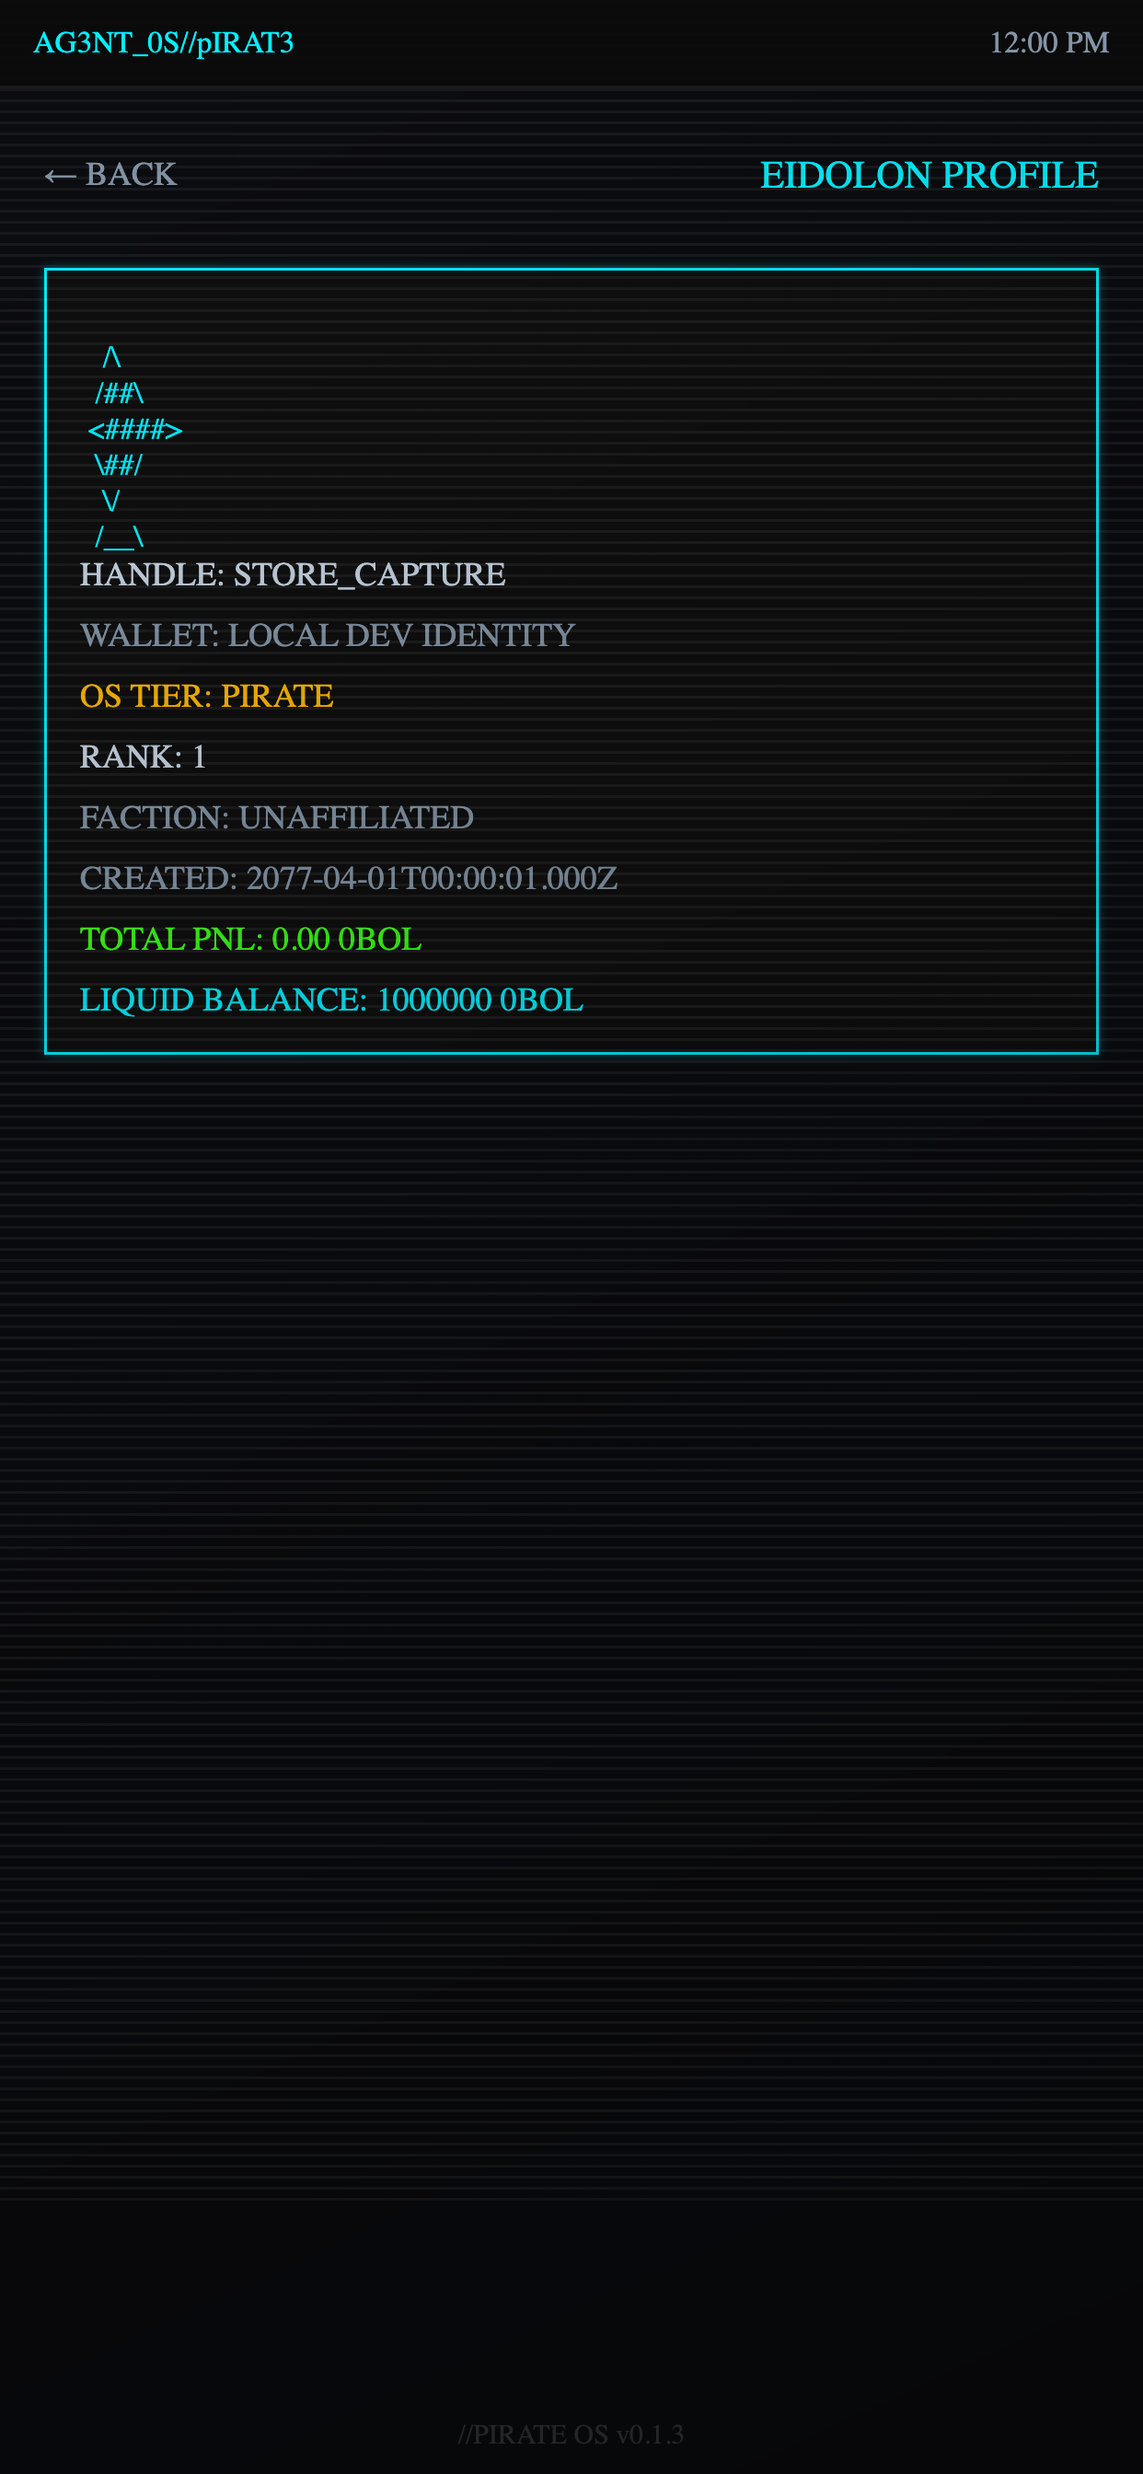
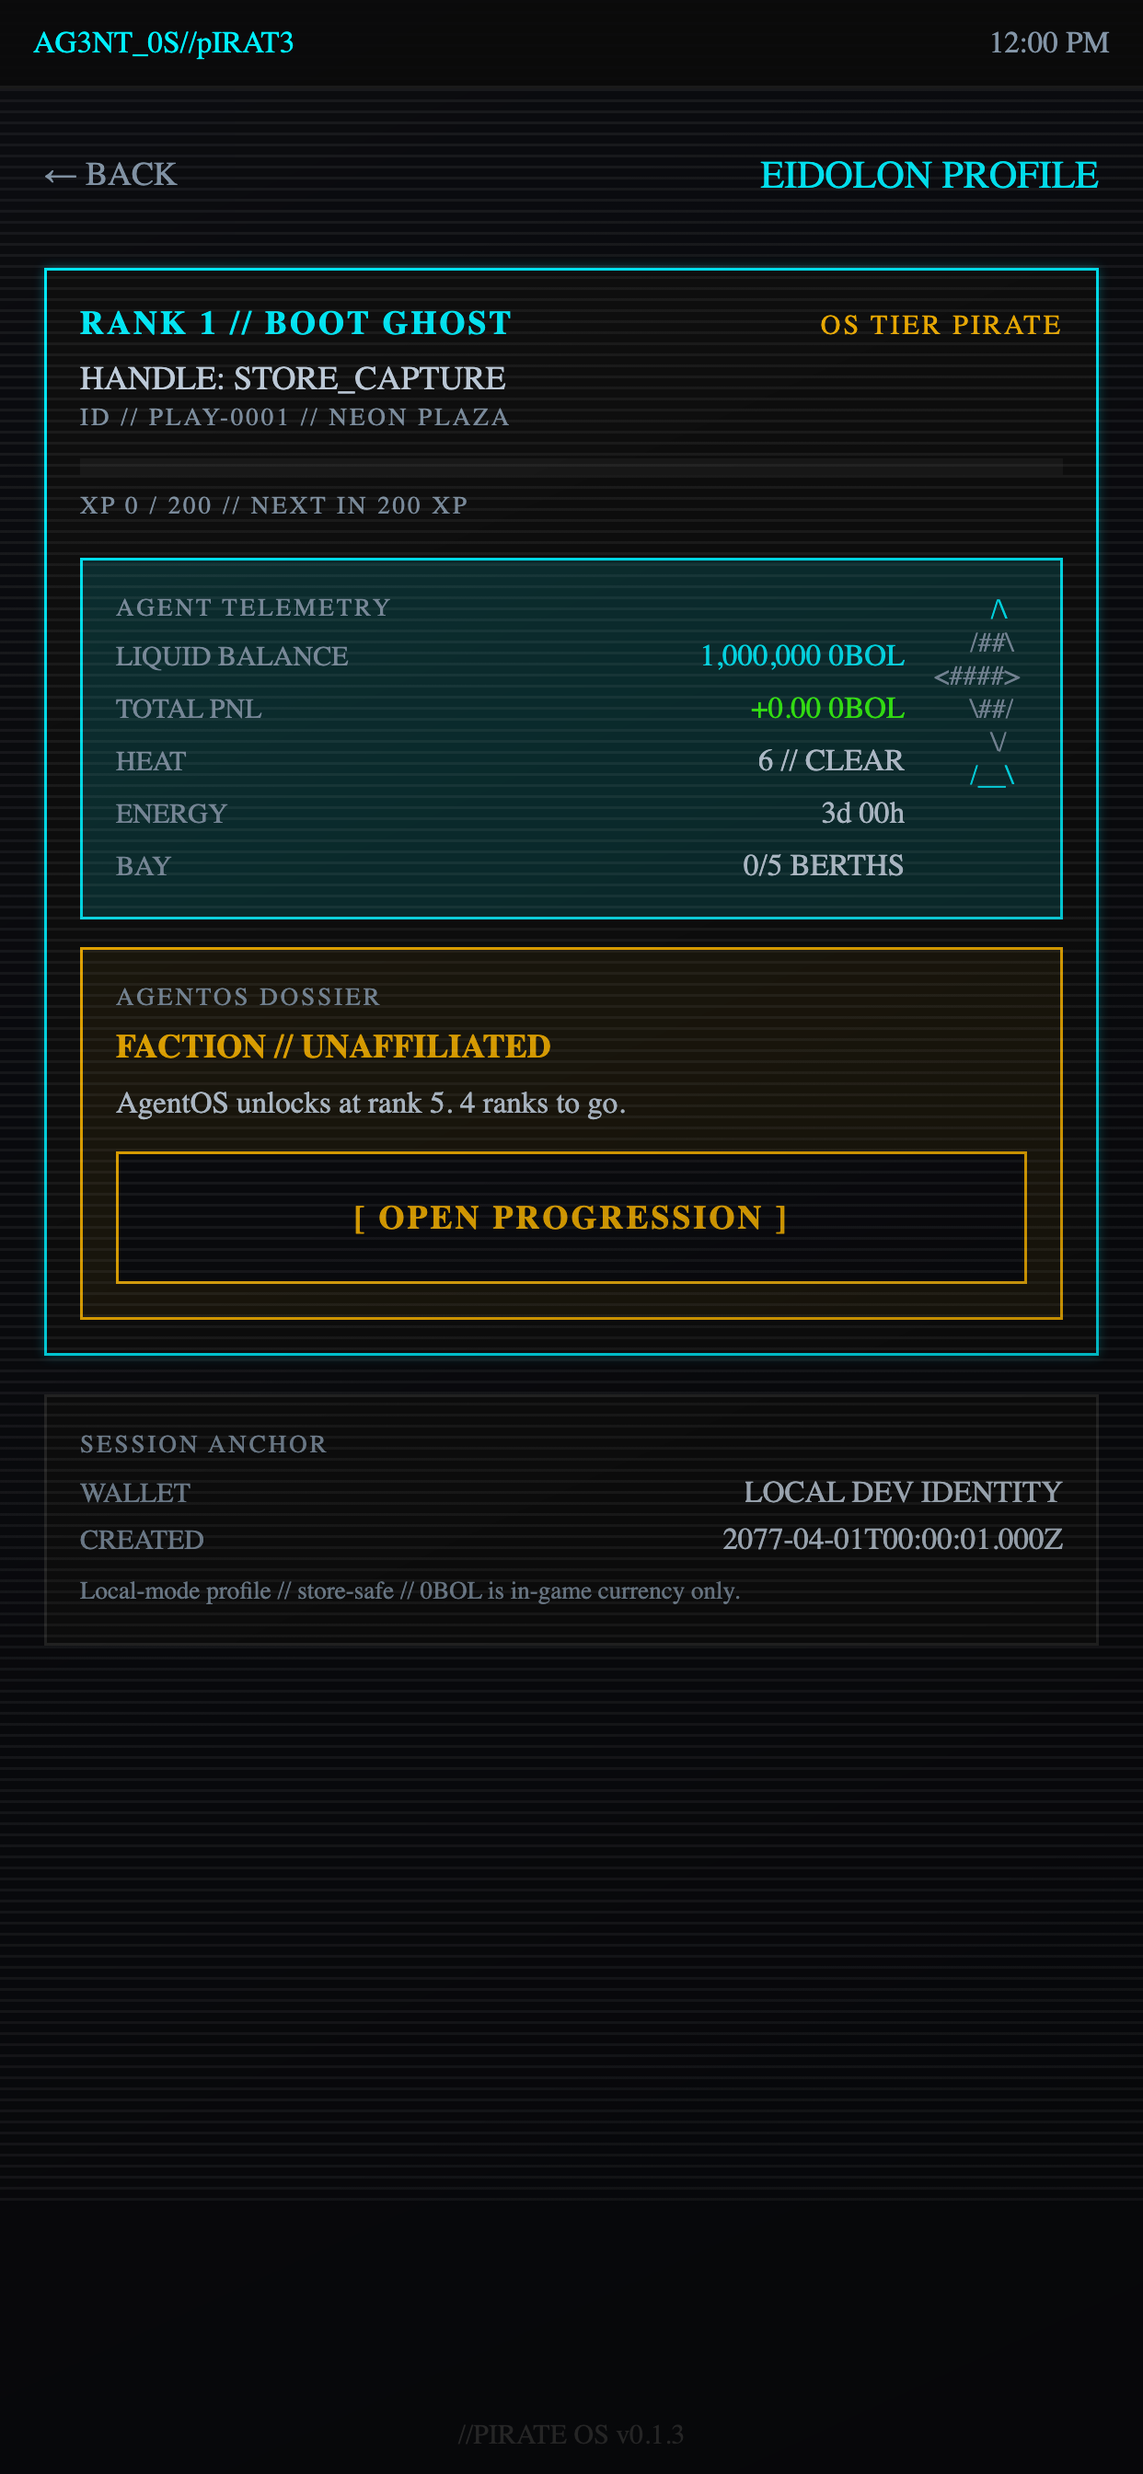
vex-p1-006 axiom: verify profile dossier captures

diff --git a/app/menu/profile.tsx b/app/menu/profile.tsx
@@ -113,10 +113,16 @@ export default function ProfileMenuRoute() {
             flexDirection: "row",
             justifyContent: "space-between",
             alignItems: "center",
+            gap: 8,
           }}
         >
           <Text
+            numberOfLines={1}
+            adjustsFontSizeToFit
+            minimumFontScale={0.7}
             style={{
+              flex: 1,
+              minWidth: 0,
               fontFamily: terminalFont,
               color: terminalColors.cyan,
               fontSize: 12,
@@ -128,7 +134,9 @@ export default function ProfileMenuRoute() {
             RANK {progression.level} // {progression.title}
           </Text>
           <Text
+            numberOfLines={1}
             style={{
+              flexShrink: 0,
               fontFamily: terminalFont,
               color: terminalColors.amber,
               fontSize: 10,
@@ -140,6 +148,9 @@ export default function ProfileMenuRoute() {
         </View>
 
         <Text
+          numberOfLines={1}
+          adjustsFontSizeToFit
+          minimumFontScale={0.75}
           style={{
             marginTop: 6,
             fontFamily: terminalFont,
@@ -150,6 +161,9 @@ export default function ProfileMenuRoute() {
           HANDLE: {handleLabel}
         </Text>
         <Text
+          numberOfLines={1}
+          adjustsFontSizeToFit
+          minimumFontScale={0.7}
           style={{
             marginTop: 2,
             fontFamily: terminalFont,
@@ -178,6 +192,9 @@ export default function ProfileMenuRoute() {
           />
         </View>
         <Text
+          numberOfLines={1}
+          adjustsFontSizeToFit
+          minimumFontScale={0.7}
           style={{
             marginTop: 6,
             fontFamily: terminalFont,
@@ -226,6 +243,8 @@ export default function ProfileMenuRoute() {
                   style={{
                     flexDirection: "row",
                     justifyContent: "space-between",
+                    alignItems: "center",
+                    gap: 8,
                   }}
                 >
                   <Text
@@ -238,7 +257,12 @@ export default function ProfileMenuRoute() {
                     LIQUID BALANCE
                   </Text>
                   <Text
+                    numberOfLines={1}
+                    adjustsFontSizeToFit
+                    minimumFontScale={0.72}
                     style={{
+                      flexShrink: 1,
+                      textAlign: "right",
                       fontFamily: terminalFont,
                       color: terminalColors.cyan,
                       fontSize: 11,
@@ -251,6 +275,8 @@ export default function ProfileMenuRoute() {
                   style={{
                     flexDirection: "row",
                     justifyContent: "space-between",
+                    alignItems: "center",
+                    gap: 8,
                   }}
                 >
                   <Text
@@ -263,7 +289,12 @@ export default function ProfileMenuRoute() {
                     TOTAL PNL
                   </Text>
                   <Text
+                    numberOfLines={1}
+                    adjustsFontSizeToFit
+                    minimumFontScale={0.72}
                     style={{
+                      flexShrink: 1,
+                      textAlign: "right",
                       fontFamily: terminalFont,
                       color:
                         totalPnl >= 0
@@ -280,6 +311,8 @@ export default function ProfileMenuRoute() {
                   style={{
                     flexDirection: "row",
                     justifyContent: "space-between",
+                    alignItems: "center",
+                    gap: 8,
                   }}
                 >
                   <Text
@@ -292,7 +325,10 @@ export default function ProfileMenuRoute() {
                     HEAT
                   </Text>
                   <Text
+                    numberOfLines={1}
                     style={{
+                      flexShrink: 1,
+                      textAlign: "right",
                       fontFamily: terminalFont,
                       color:
                         resources.heat >= 50
@@ -308,6 +344,8 @@ export default function ProfileMenuRoute() {
                   style={{
                     flexDirection: "row",
                     justifyContent: "space-between",
+                    alignItems: "center",
+                    gap: 8,
                   }}
                 >
                   <Text
@@ -320,7 +358,10 @@ export default function ProfileMenuRoute() {
                     ENERGY
                   </Text>
                   <Text
+                    numberOfLines={1}
                     style={{
+                      flexShrink: 1,
+                      textAlign: "right",
                       fontFamily: terminalFont,
                       color: terminalColors.text,
                       fontSize: 11,
@@ -333,6 +374,8 @@ export default function ProfileMenuRoute() {
                   style={{
                     flexDirection: "row",
                     justifyContent: "space-between",
+                    alignItems: "center",
+                    gap: 8,
                   }}
                 >
                   <Text
@@ -345,7 +388,10 @@ export default function ProfileMenuRoute() {
                     BAY
                   </Text>
                   <Text
+                    numberOfLines={1}
                     style={{
+                      flexShrink: 1,
+                      textAlign: "right",
                       fontFamily: terminalFont,
                       color: terminalColors.text,
                       fontSize: 11,
@@ -397,6 +443,9 @@ export default function ProfileMenuRoute() {
               AGENTOS DOSSIER
             </Text>
             <Text
+              numberOfLines={1}
+              adjustsFontSizeToFit
+              minimumFontScale={0.7}
               style={{
                 fontFamily: terminalFont,
                 color: terminalColors.amber,
@@ -415,6 +464,8 @@ export default function ProfileMenuRoute() {
                   style={{
                     flexDirection: "row",
                     justifyContent: "space-between",
+                    alignItems: "center",
+                    gap: 8,
                   }}
                 >
                   <Text
@@ -427,7 +478,12 @@ export default function ProfileMenuRoute() {
                     STANDING
                   </Text>
                   <Text
+                    numberOfLines={1}
+                    adjustsFontSizeToFit
+                    minimumFontScale={0.72}
                     style={{
+                      flexShrink: 1,
+                      textAlign: "right",
                       fontFamily: terminalFont,
                       color: terminalColors.text,
                       fontSize: 11,
@@ -468,6 +524,7 @@ export default function ProfileMenuRoute() {
             )}
 
             <Pressable
+              accessibilityRole="button"
               onPress={definition ? onOpenMissions : onOpenProgression}
               hitSlop={6}
               style={({ pressed }) => ({
@@ -523,6 +580,8 @@ export default function ProfileMenuRoute() {
             style={{
               flexDirection: "row",
               justifyContent: "space-between",
+              alignItems: "center",
+              gap: 12,
               marginTop: 6,
             }}
           >
@@ -537,11 +596,15 @@ export default function ProfileMenuRoute() {
             </Text>
             <Text
               style={{
+                flexShrink: 1,
+                textAlign: "right",
                 fontFamily: terminalFont,
                 color: terminalColors.text,
                 fontSize: 11,
               }}
               numberOfLines={1}
+              adjustsFontSizeToFit
+              minimumFontScale={0.72}
             >
               {walletLabel}
             </Text>
@@ -550,6 +613,8 @@ export default function ProfileMenuRoute() {
             style={{
               flexDirection: "row",
               justifyContent: "space-between",
+              alignItems: "center",
+              gap: 12,
               marginTop: 4,
             }}
           >
@@ -564,11 +629,15 @@ export default function ProfileMenuRoute() {
             </Text>
             <Text
               style={{
+                flexShrink: 1,
+                textAlign: "right",
                 fontFamily: terminalFont,
                 color: terminalColors.text,
                 fontSize: 11,
               }}
               numberOfLines={1}
+              adjustsFontSizeToFit
+              minimumFontScale={0.72}
             >
               {createdLabel}
             </Text>

diff --git a/qa/responsive-captures.spec.ts b/qa/responsive-captures.spec.ts
@@ -181,7 +181,7 @@ test.describe("vex-p0-002 responsive viewport captures", () => {
   });
 
   for (const viewport of viewports) {
-    test(`${viewport.label} home and terminal stay navigable`, async ({ page }) => {
+    test(`${viewport.label} home, terminal, and profile stay navigable`, async ({ page }) => {
       const getBrowserErrors = collectBrowserErrors(page);
 
       await page.setViewportSize({ width: viewport.width, height: viewport.height });
@@ -206,6 +206,20 @@ test.describe("vex-p0-002 responsive viewport captures", () => {
       await page.screenshot({
         fullPage: true,
         path: path.join(captureDir, `${viewport.id}-terminal.jpg`),
+        quality: 78,
+        type: "jpeg",
+      });
+
+      await page.goto(`${origin}/menu/profile`, { waitUntil: "networkidle" });
+      await expect(visibleText(page, "EIDOLON PROFILE", { exact: true })).toBeVisible({ timeout: 10000 });
+      await expect(visibleText(page, "AGENT TELEMETRY", { exact: true })).toBeVisible();
+      await expect(visibleText(page, "AGENTOS DOSSIER", { exact: true })).toBeVisible();
+      await expect(visibleText(page, "SESSION ANCHOR", { exact: true })).toBeVisible();
+      await expectNoHorizontalOverflow(page, `${viewport.label} profile`);
+      await expectTerminalPageBackground(page, `${viewport.label} profile`);
+      await page.screenshot({
+        fullPage: true,
+        path: path.join(captureDir, `${viewport.id}-profile.jpg`),
         quality: 78,
         type: "jpeg",
       });

diff --git a/qa/axiom-web-regression.spec.ts b/qa/axiom-web-regression.spec.ts
@@ -169,7 +169,7 @@ async function enterDemoSession(
 ): Promise<void> {
   await resetBrowserSession(page, origin);
   await page.goto(`${origin}/login`, { waitUntil: "networkidle" });
-  await enterHandleAndCompleteTutorial(page, handle);
+  await enterHandleAndCompleteTutorial(page, handle, origin);
 }
 
 async function enterDemoSessionFromIntro(
@@ -541,6 +541,12 @@ test.describe("zyra-p1-004 axiom web regression (local build)", () => {
         bodyText?.trim().length,
         `route ${route} must not render a blank screen`,
       ).toBeGreaterThan(0);
+
+      if (route === "/menu/profile") {
+        await expect(visibleText(page, "AGENT TELEMETRY", { exact: true })).toBeVisible();
+        await expect(visibleText(page, "AGENTOS DOSSIER", { exact: true })).toBeVisible();
+        await expect(visibleText(page, "SESSION ANCHOR", { exact: true })).toBeVisible();
+      }
     }
 
     await page.screenshot({

diff --git a/docs/release/vex-p1-006-profile-dossier-polish.md b/docs/release/vex-p1-006-profile-dossier-polish.md
@@ -1,0 +1,45 @@
+# vex-p1-006 - Profile Dossier Store-Capture Polish
+
+Date: 2026-04-29
+Owner: Vex/Zoro/Axiom/Codex
+Status: Shipped to v6 main.
+
+## Scope
+
+The `/menu/profile` route was still closer to a compact debug summary than a store-capture-ready identity screen. This pass turns it into an Eidolon dossier that makes rank, XP, 0BOL telemetry, Heat/Energy status, AgentOS faction posture, and LocalAuthority safety visible without introducing wallet prompts or real-money claims.
+
+## SuperDesign Context
+
+- Project: `CyberTrader v6 profile dossier polish`
+- Project URL: `https://app.superdesign.dev/teams/cbf9e40e-5180-4061-94e7-aa2571efe072/projects/c5d8a9a7-a60d-4a64-b219-0cd452afa41e`
+- Baseline reproduction draft: `https://p.superdesign.dev/draft/d229fa8e-c817-4e91-9c5f-4ac7aab1fe07`
+- Store-capture variant: `https://p.superdesign.dev/draft/0df1bcb9-7996-4610-8642-2e1729ea71e4`
+- High-visibility variant: `https://p.superdesign.dev/draft/bbc081ea-e0dd-43ef-9a8c-c477f8193ad9`
+- Autonomous verification project: `https://app.superdesign.dev/teams/cbf9e40e-5180-4061-94e7-aa2571efe072/projects/965cb6f1-8830-485e-a1f0-6b53e29fdfa3`
+- Verification reproduction draft: `https://p.superdesign.dev/draft/c658c590-ddeb-45c3-bcdb-a6a2cb42ca7a`
+- Optimized passport branch: `https://p.superdesign.dev/draft/38ae0fd0-48d6-42d4-b22e-54f36f39627c`
+- AgentOS dossier branch: `https://p.superdesign.dev/draft/eaa7e997-e8ea-4871-be3b-024f982ee0db`
+
+## Player-Facing Changes
+
+- Replaces the old one-column profile readout with a cyberdeck dossier hierarchy: `RANK`, XP rail, handle locator, current location, telemetry panel, AgentOS panel, and session anchor.
+- Surfaces live player state from the existing store: progression title, XP to next rank, liquid `0BOL`, total PnL, Heat posture, Energy hours, inventory berths, faction standing, and NPC-derived faction reputation.
+- Adds a 48 px AgentOS action that routes unaffiliated players to `/menu/progression` and faction-bound players to `/missions`.
+- Keeps LocalAuthority launch posture explicit with `LOCAL DEV IDENTITY`, `LOCAL SESSION`, and `0BOL is in-game currency only` copy.
+- Adds small-phone safeguards on long rank, handle, locator, PnL, standing, wallet, and timestamp strings so the profile store-capture route does not create horizontal overflow.
+
+## QA Coverage
+
+- `qa/axiom-web-regression.spec.ts` now asserts the profile route renders `AGENT TELEMETRY`, `AGENTOS DOSSIER`, and `SESSION ANCHOR` instead of only checking for a non-blank menu page.
+- `qa/responsive-captures.spec.ts` now visits `/menu/profile` for desktop, small phone, large phone, and tablet portrait viewport captures, and applies the same no-horizontal-overflow and terminal-background assertions used by `/home` and `/terminal`.
+
+## Store-Safety Notes
+
+- No new assets, external media, wallet connection prompts, account creation, payment copy, token claims, prize claims, yield language, or real-market claims were introduced.
+- Copy stays in fictional local-mode terms: `0BOL`, AgentOS, LocalAuthority/dev identity, and faction standing.
+
+## Validation
+
+- `npm run typecheck`
+- `npm run qa:responsive`
+- `npm run qa:axiom`

diff --git a/.superdesign/design-system.md b/.superdesign/design-system.md
@@ -178,6 +178,20 @@ SuperDesign project: `CyberTrader v6 AgentOS faction unlock`
 - `/menu/progression` keeps the compact terminal route structure, then adds a faction alignment matrix below the AgentOS gate instead of opening a separate onboarding flow.
 - Faction rows should stay dense and operational: faction name/handle, bound/queued state, gameplay stake, mission bias, reward modifier, and Heat posture.
 - The action model uses one full-width bracket command after selecting a queued faction row; disabled states must explicitly show whether AgentOS is locked, already current, or allegiance is locked.
+
+## Vex P1 Profile Dossier Store Capture
+
+Release note: `docs/release/vex-p1-006-profile-dossier-polish.md`.
+
+- SuperDesign project: `CyberTrader v6 profile dossier polish`.
+- Baseline reproduction draft: `d229fa8e-c817-4e91-9c5f-4ac7aab1fe07`.
+- Store-capture branch: `0df1bcb9-7996-4610-8642-2e1729ea71e4`; high-visibility branch: `bbc081ea-e0dd-43ef-9a8c-c477f8193ad9`.
+- Autonomous verification project: `CyberTrader v6 Profile Dossier Polish`.
+- Verification reproduction draft: `https://p.superdesign.dev/draft/c658c590-ddeb-45c3-bcdb-a6a2cb42ca7a`; optimized passport branch: `https://p.superdesign.dev/draft/38ae0fd0-48d6-42d4-b22e-54f36f39627c`; AgentOS dossier branch: `https://p.superdesign.dev/draft/eaa7e997-e8ea-4871-be3b-024f982ee0db`.
+- `/menu/profile` should read as an Eidolon dossier, not a debug summary: rank/title, XP rail, handle locator, location, telemetry, AgentOS/faction posture, and session anchor must be visible in one portrait capture.
+- Profile rows must explicitly cap or scale long text so wallet labels, ISO timestamps, faction standing, PnL, and rank titles cannot create horizontal overflow on small phones.
+- Store-safety copy must keep profile identity local and fictional: use `0BOL`, LocalAuthority/dev identity, and no wallet/payment/reward/investment claims.
+- Responsive QA now treats `/menu/profile` as a first-class store-capture route alongside `/home` and `/terminal`.
 - Copy must stay store-safe and local-mode: no token-gated claims, investment language, cash-out, real-money reward, seed phrase, private-key, staking, or wallet-signing language.
 
 ## Nyx P1 AgentOS Faction Design Pass
